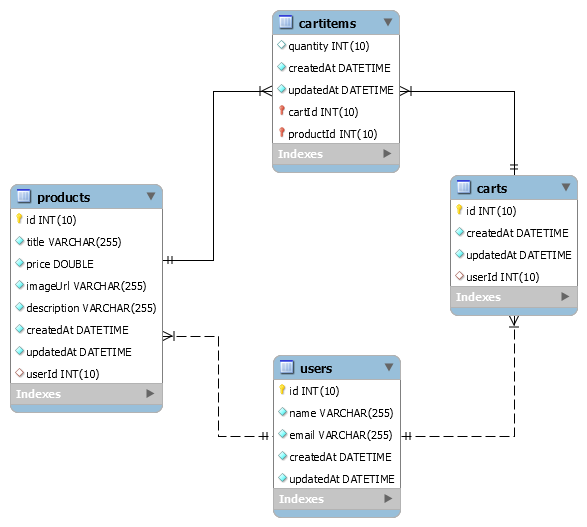
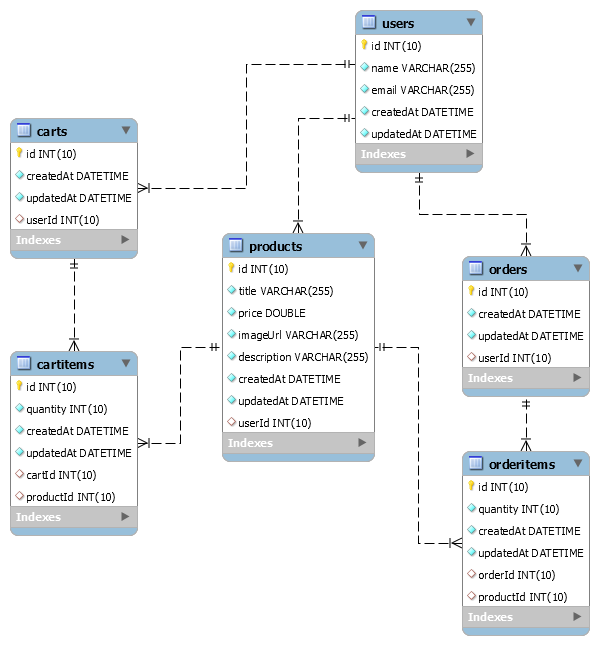
Define order data model and its relationship with other tables
* Define Orders and OrderItems tables
* Specify relationship between Orders and Users, Orders and Products
* Revise EER diagram
* Add SQL statements to manually create these tables

Changed region(s): [[0.3066, 0.0, 1.0, 1.0], [0.0, 0.1822, 0.368, 0.8501], [0.276, 0.4858, 0.3066, 0.5161]]

diff --git a/01-online-shop/app.js b/01-online-shop/app.js
@@ -9,6 +9,8 @@ const Product = require('./models/product')
 const User = require('./models/user')
 const Cart = require('./models/cart')
 const CartItem = require('./models/cart-item')
+const Order = require('./models/order')
+const OrderItem = require('./models/order-item')
 
 const adminRoutes = require('./routes/admin')
 const shopRoutes = require('./routes/shop')
@@ -108,6 +110,25 @@ Cart.belongsTo(User)
 Cart.belongsToMany(Product, { through: CartItem })
 Product.belongsToMany(Cart, { through: CartItem })
 
+// - One-To-Many relationship between 'User' and 'Order'
+//   (a user may place multiple orders, and each order is created by only one user)
+// - The foreign key is defined in 'Order'
+//   FOREIGN KEY (`userId`) REFERENCES `users`(`id`) ON DELETE SET NULL ON UPDATE CASCADE
+// - Deleting rows in 'User' will set the 'Order'.'userId' of matching rows in 'Order' to NULL
+//   Updating rows in 'User' will automatically update matching rows in 'Order'
+User.hasMany(Order)
+Order.belongsTo(User)
+
+// - Many-To-Many relationship between 'Order' and 'Product'
+//   (An order may contain many products, and a product may appear in multiple orders)
+// - 'OrderItem' will act as a junction model having 2 foreign keys referencing to 'Order' and 'Product'
+//   FOREIGN KEY (`orderId`) REFERENCES `orders`(`id`) ON DELETE CASCADE ON UPDATE CASCADE
+//   FOREIGN KEY (`productId`) REFERENCES `products`(`id`) ON DELETE CASCADE ON UPDATE CASCADE
+// - Deleting/Updating rows in 'Cart' and/or 'Product' will automatically delete/update
+//   'OrderItem' matching rows
+Order.belongsToMany(Product, { through: OrderItem })
+Product.belongsToMany(Order, { through: OrderItem })
+
 // Sysc database, and if successful start the app server
 sequelize.sync(/*{ force: true }*/)
   .then(result => {
@@ -119,10 +140,8 @@ sequelize.sync(/*{ force: true }*/)
     }
     return user
   })
-  .then(user => {
-    return user.getCart()
-  })
-  .then(cart => {
+  .then(async user => {
+    const cart = await user.getCart()
     if (!cart) {
       return user.createCart()
     }

diff --git a/01-online-shop/models/order-item.js b/01-online-shop/models/order-item.js
@@ -1,0 +1,19 @@
+const { DataTypes } = require('sequelize')
+
+const sequelize = require('../util/database')
+
+const OrderItem = sequelize.define('orderItem', {
+  id: {
+    type: DataTypes.INTEGER.UNSIGNED,
+    autoIncrement: true,
+    allowNull: false,
+    unique: true,
+    primaryKey: true
+  },
+  quantity: {
+    type: DataTypes.INTEGER.UNSIGNED,
+    allowNull: false
+  }
+})
+
+module.exports = OrderItem

diff --git a/01-online-shop/models/order.js b/01-online-shop/models/order.js
@@ -1,0 +1,15 @@
+const { DataTypes } = require('sequelize')
+
+const sequelize = require('../util/database')
+
+const Order = sequelize.define('order', {
+  id: {
+    type: DataTypes.INTEGER.UNSIGNED,
+    autoIncrement: true,
+    allowNull: false,
+    unique: true,
+    primaryKey: true
+  }
+})
+
+module.exports = Order
